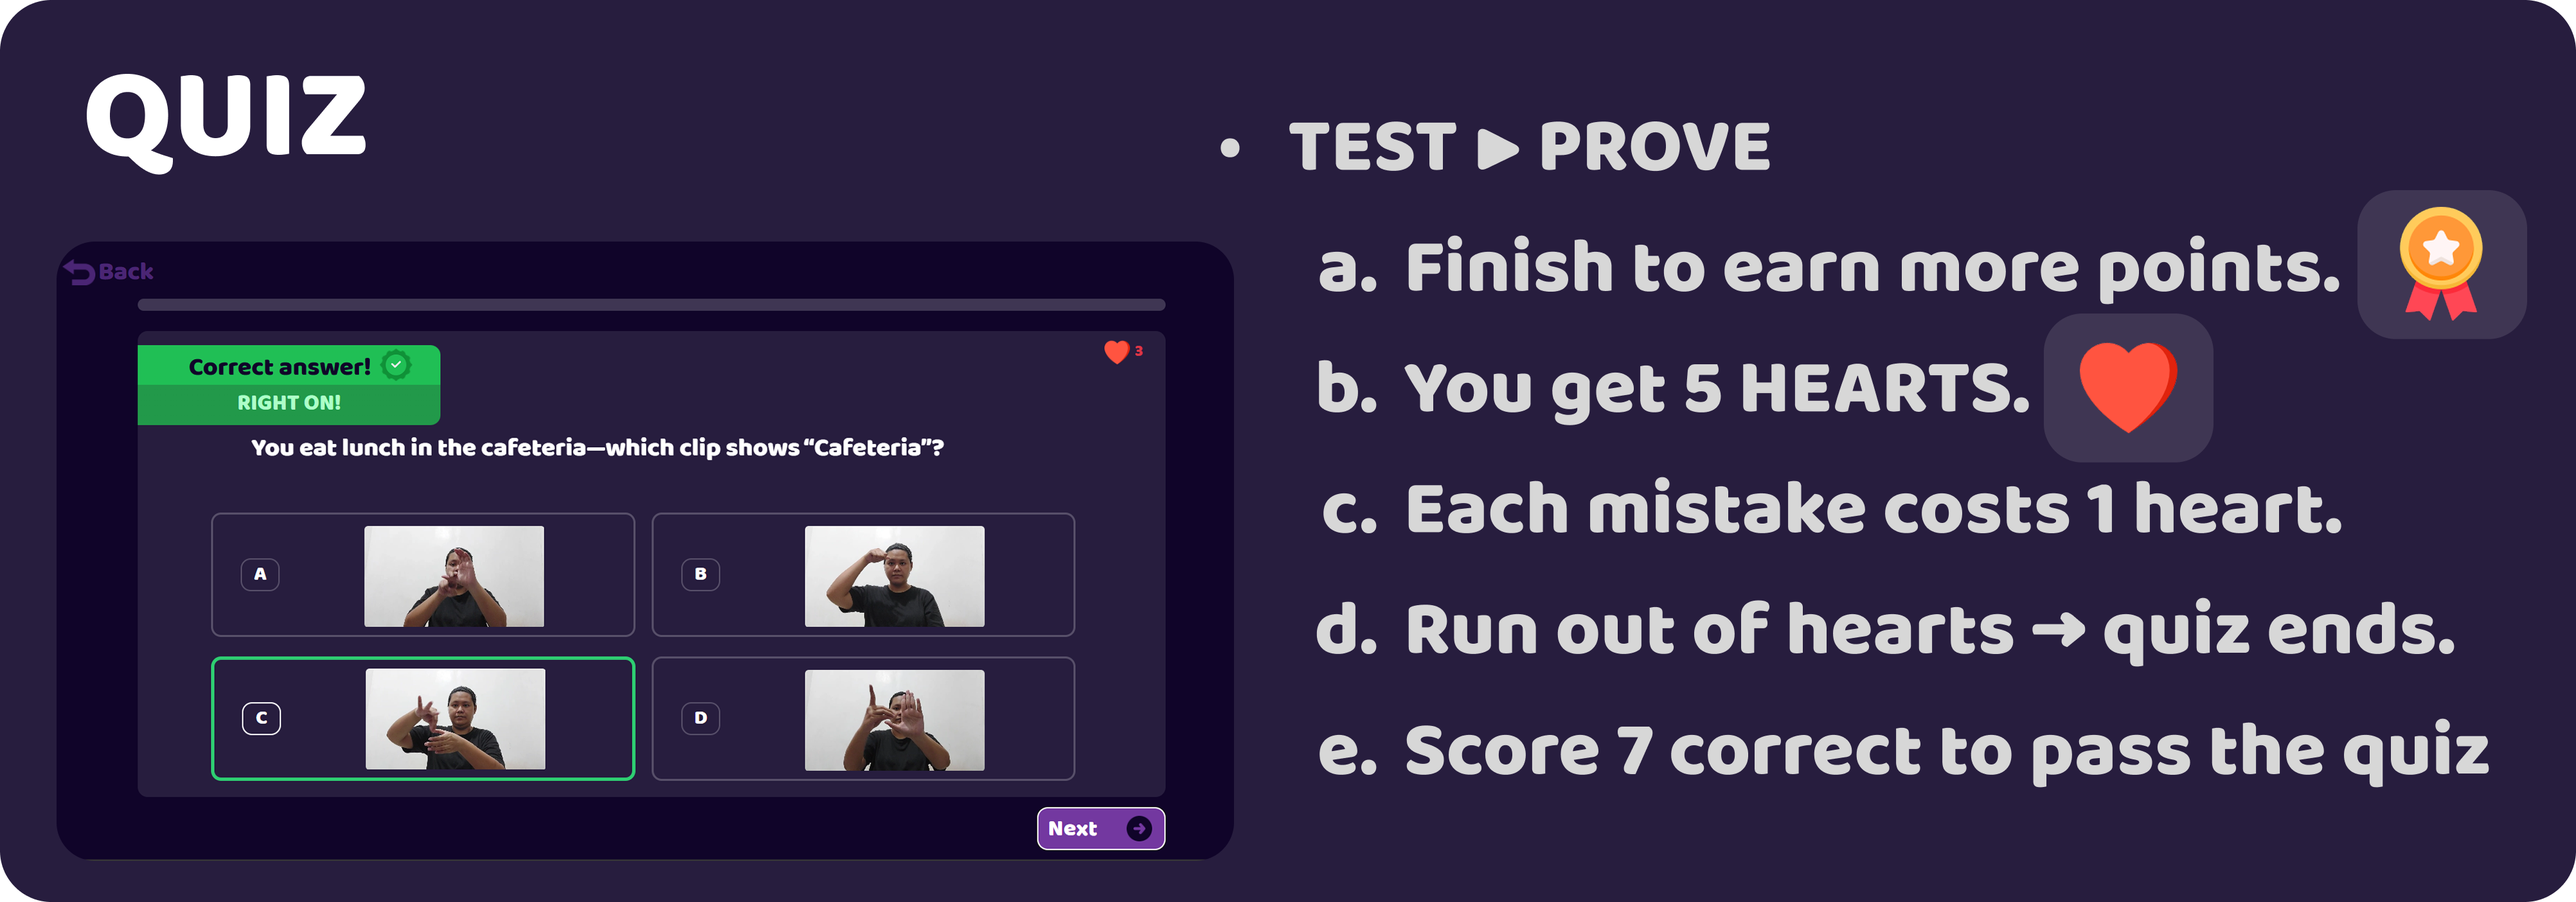
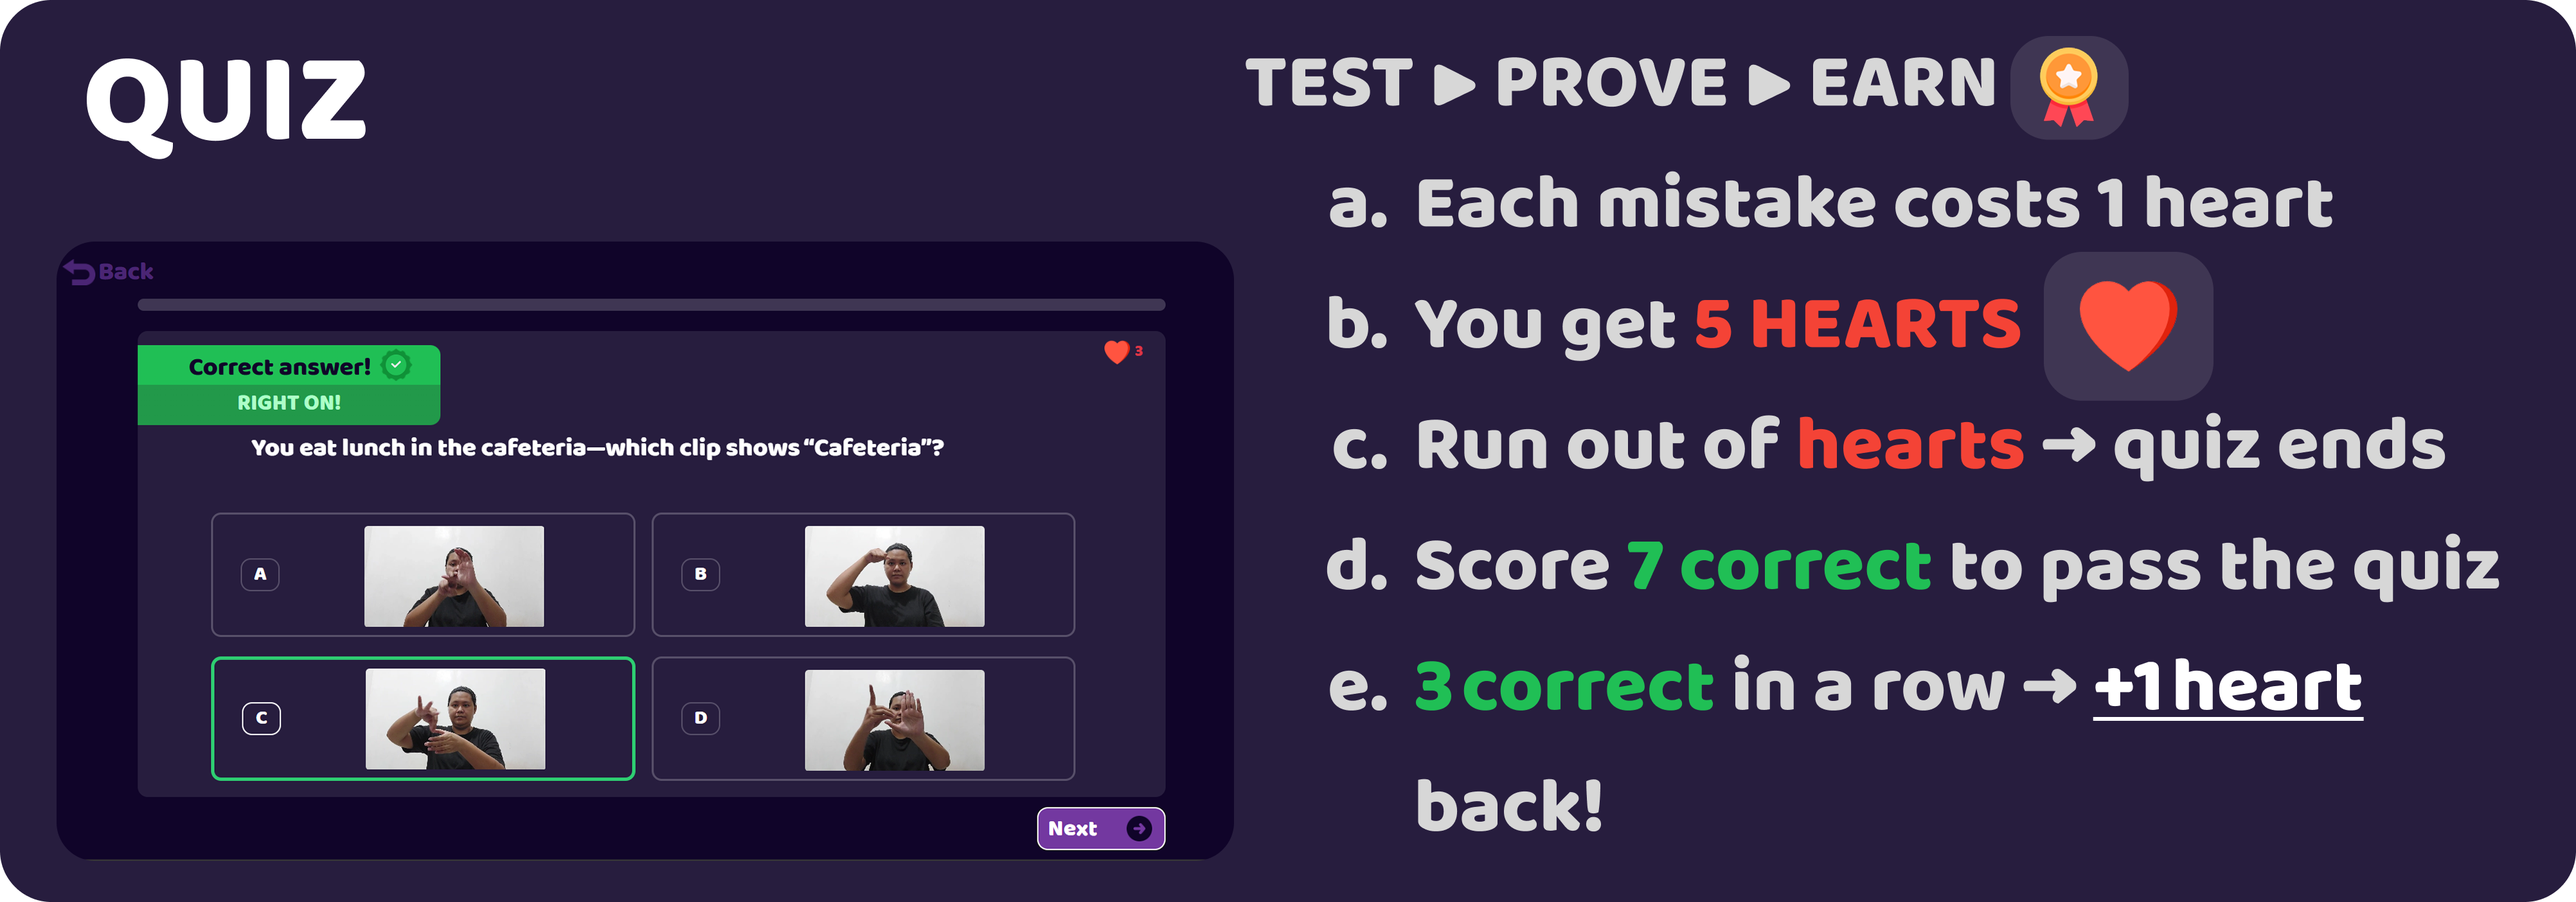
quiz points/instruction update

Changed region(s): [[0.4678, 0.0306, 0.998, 0.9188], [0.0312, 0.0613, 0.1559, 0.1838]]

diff --git a/src/Pages/Quizzes/Quiz.jsx b/src/Pages/Quizzes/Quiz.jsx
@@ -4,6 +4,7 @@ import backkpoint from "../../assets/backkpoint.png";
 import arrow from "../../assets/arrow.png";
 import check from "../../assets/check.png";
 import ekis from "../../assets/ekis.png";
+import diamond from "../../assets/diamond.png";
 import "../../css/Quiz.css";
 import toast from "react-hot-toast";
 import axios from "axios";
@@ -314,13 +315,17 @@ function Quiz() {
     return (
       <div className="d-flex flex-column align-items-center justify-content-center gap-2">
         <img src={failed} alt="" />
+         <div className="dia-reward d-flex pt-1">
+          <img src={diamond} className="img-fluid p-1 ms-5" alt="diamond img" />
+          <p className="dia-number ms-3 me-5  fs-1">{correctAnswers * 10}</p>
+        </div>
         <div className="stats-quiz d-flex flex-row gap-1 text-center">
                   <img src={check} className="tama img-fluid p-1" alt="check img" />
                   <p className="check-number ms-1 fs-1">{correctAnswers}</p>
                   <img src={ekis} className="mali img-fluid p-1 ms-5" alt="ekis img" />
                   <p className="ekis-number ms-1 fs-1" >{wrongAnswers}</p>
                 </div>
-        <div className="d-flex flex-column align-items-center justify-content-center gap-2">
+        <div className="d-flex flex-column align-items-center justify-content-center  ">
           <h1 >{failHeading}</h1>
            <h2 style={{ color: 'gray' }}>You need at least 7 correct answers to pass the quiz</h2>
         </div>
